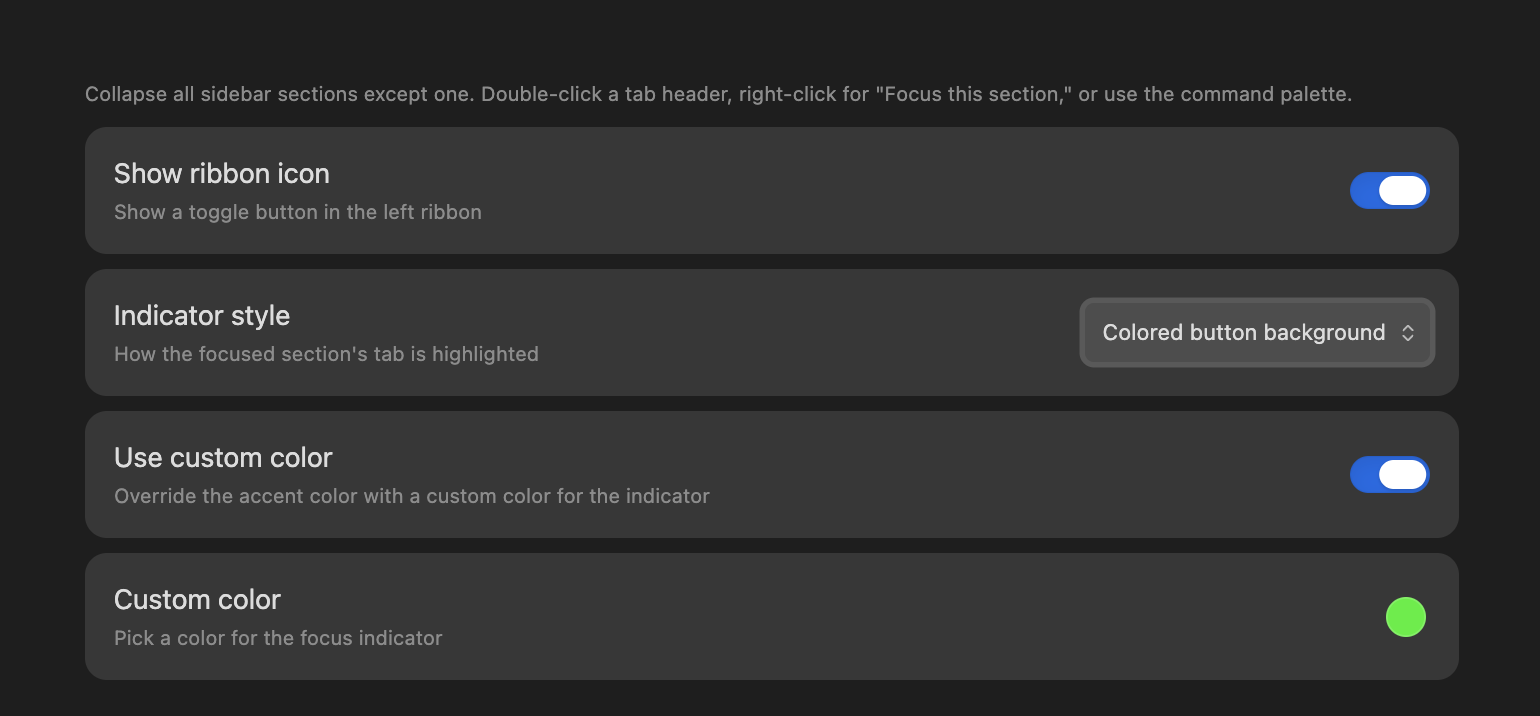
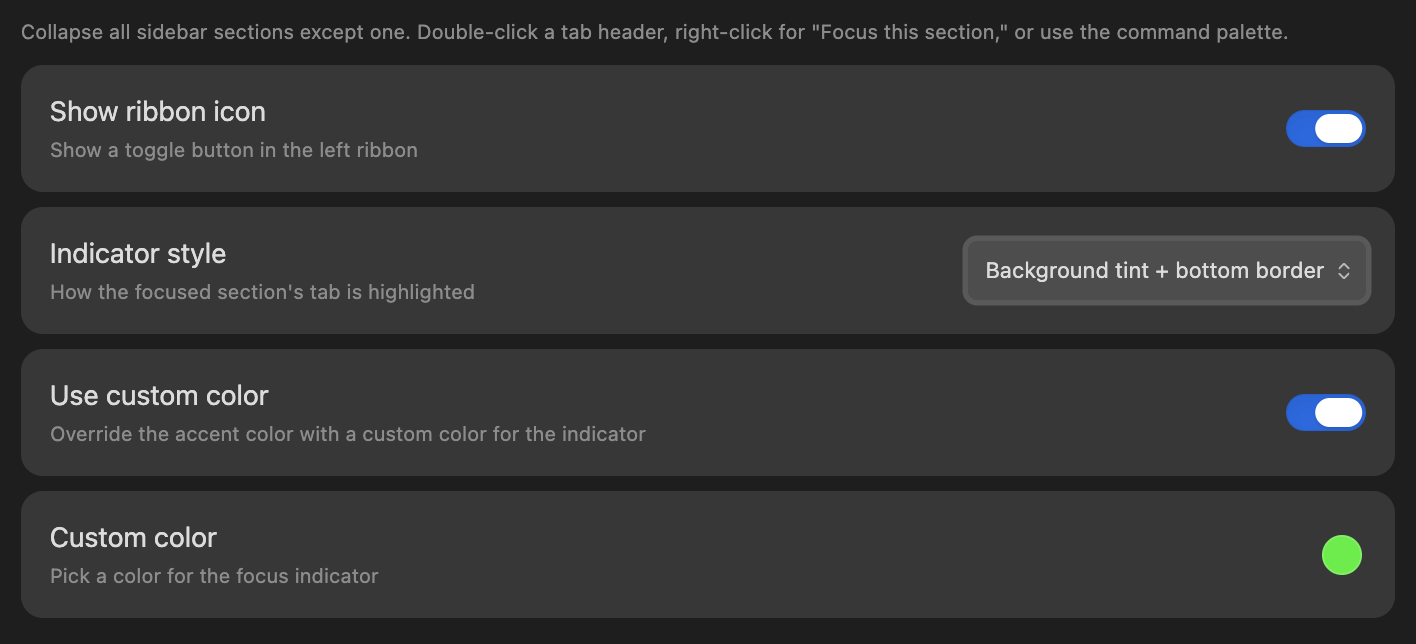
Update menu labels, demo gif, and screenshots

Changed region(s): [[0.0, 0.0932, 0.9944, 0.9627], [0.0, 0.0311, 0.9011, 0.0621]]

diff --git a/main.js b/main.js
@@ -314,7 +314,7 @@ var FocusedSidebarPlugin = class extends import_obsidian2.Plugin {
     const isFocused = this.focusedSide === side;
     menu.addSeparator();
     menu.addItem((item) => {
-      item.setTitle(isFocused ? "Unfocus sidebar" : "Focus this section").setIcon(isFocused ? "minimize" : "maximize").onClick(() => {
+      item.setTitle(isFocused ? "Unfocus section" : "Focus section").setIcon(isFocused ? "minimize" : "maximize").onClick(() => {
         if (isFocused) {
           this.unfocus();
         } else {

diff --git a/src/main.ts b/src/main.ts
@@ -262,7 +262,7 @@ export default class FocusedSidebarPlugin extends Plugin {
 
 		menu.addSeparator();
 		menu.addItem((item) => {
-			item.setTitle(isFocused ? "Unfocus sidebar" : "Focus this section")
+			item.setTitle(isFocused ? "Unfocus section" : "Focus section")
 				.setIcon(isFocused ? "minimize" : "maximize")
 				.onClick(() => {
 					if (isFocused) {

diff --git a/README.md b/README.md
@@ -4,13 +4,7 @@ An Obsidian plugin that toggles any sidebar section to fill the full sidebar hei
 
 Obsidian splits each sidebar into multiple sections that share the available height. When you want one section to have room to breathe, this plugin collapses the others and gives it the full height. Toggle again to restore the original layout.
 
-| Before | After |
-|--------|-------|
-| ![Three cramped sidebar sections](screenshots/before.png) | ![One section focused at full height](screenshots/after.png) |
-
-Double-click or right-click any tab header to focus its section:
-
-![Context menu with "Focus this section"](screenshots/context-menu.png)
+![Demo of Focused Sidebar toggling sections](screenshots/demo.gif)
 
 ## Usage
 
@@ -18,7 +12,7 @@ Multiple ways to focus:
 
 - **Command palette:** "Toggle focused sidebar" (auto-detects left or right based on where you're working)
 - **Ribbon icon:** Click the sidebar icon in the left ribbon
-- **Right-click:** Right-click any sidebar tab header and choose "Focus this section"
+- **Right-click:** Right-click any sidebar tab header and choose "Focus section"
 - **Double-click:** Double-click any sidebar tab header to focus its section
 - **Targeted commands:** "Focus left sidebar" and "Focus right sidebar" for direct control
 - **Cycle:** "Cycle to next section" steps through sections while focused
